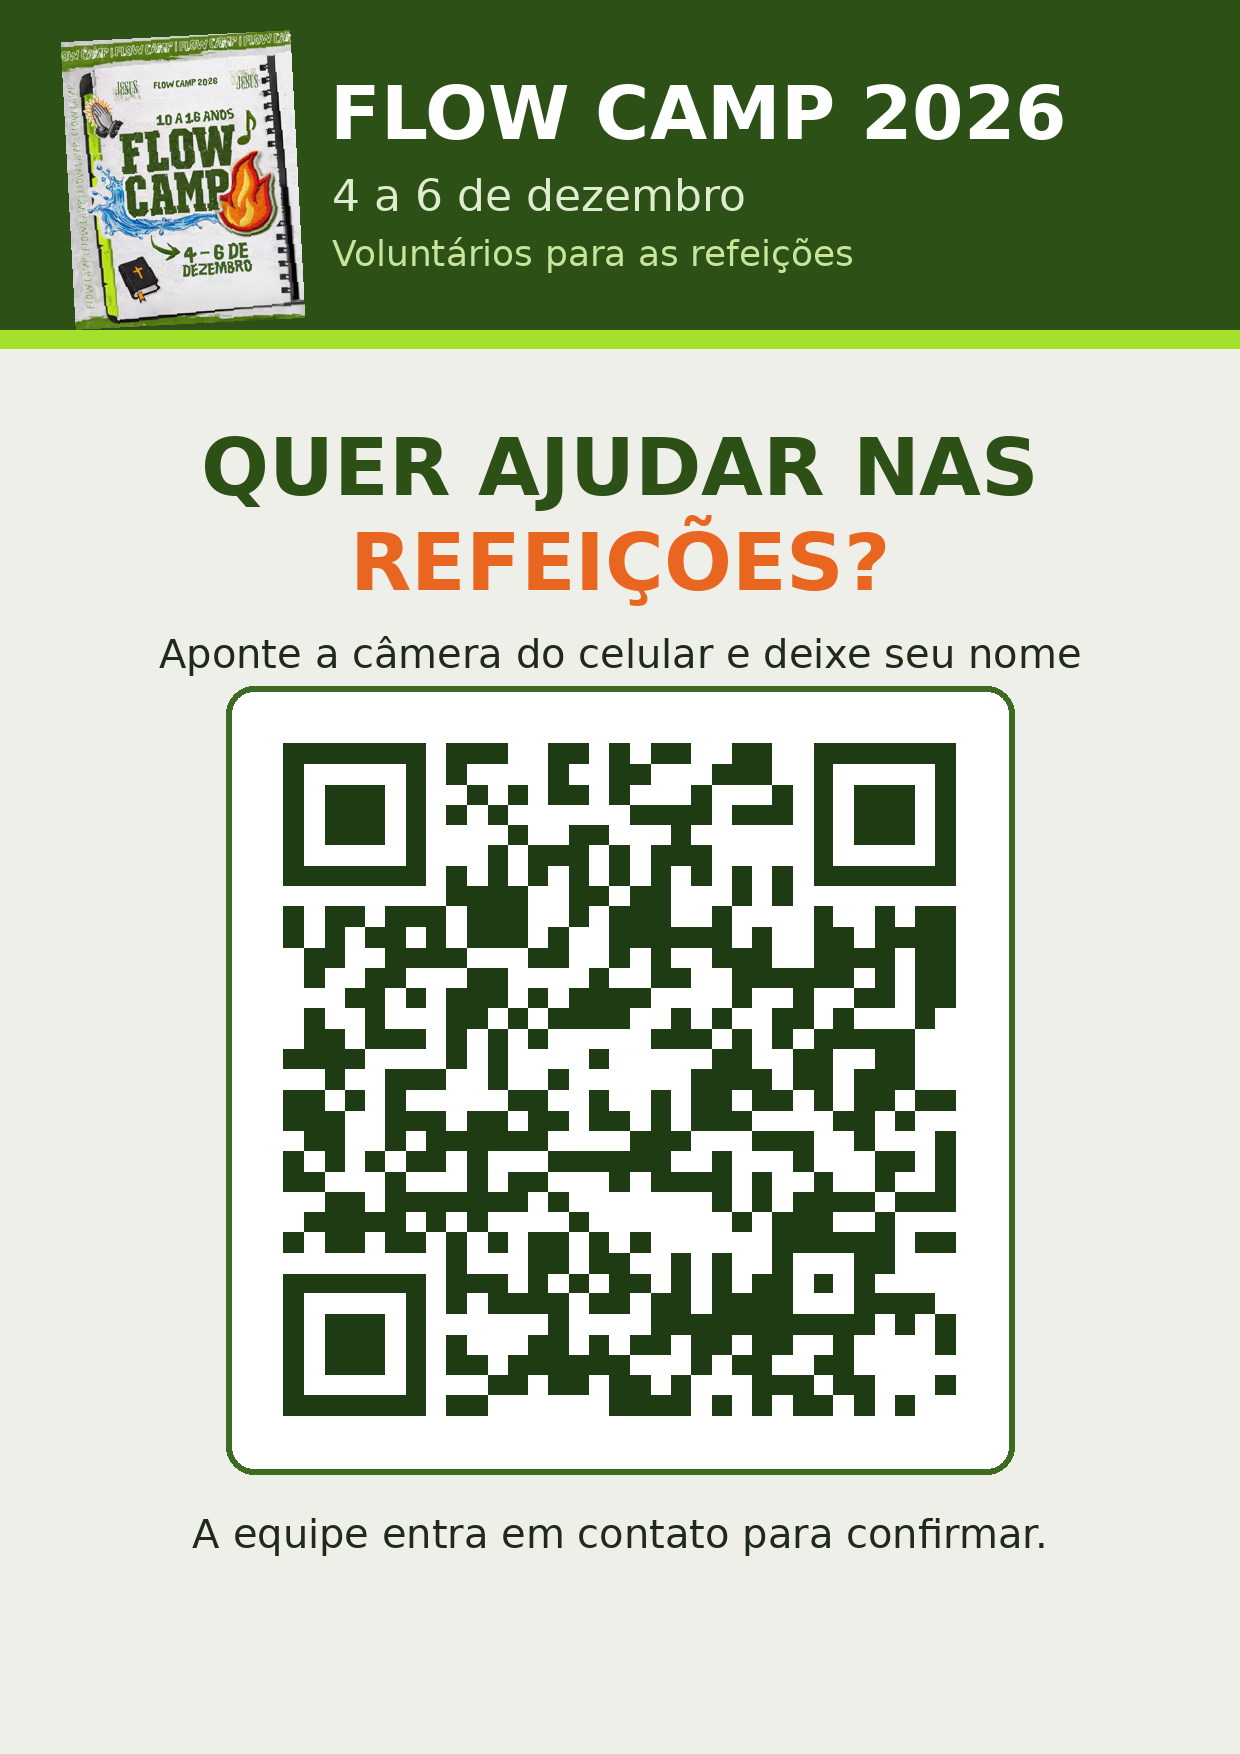
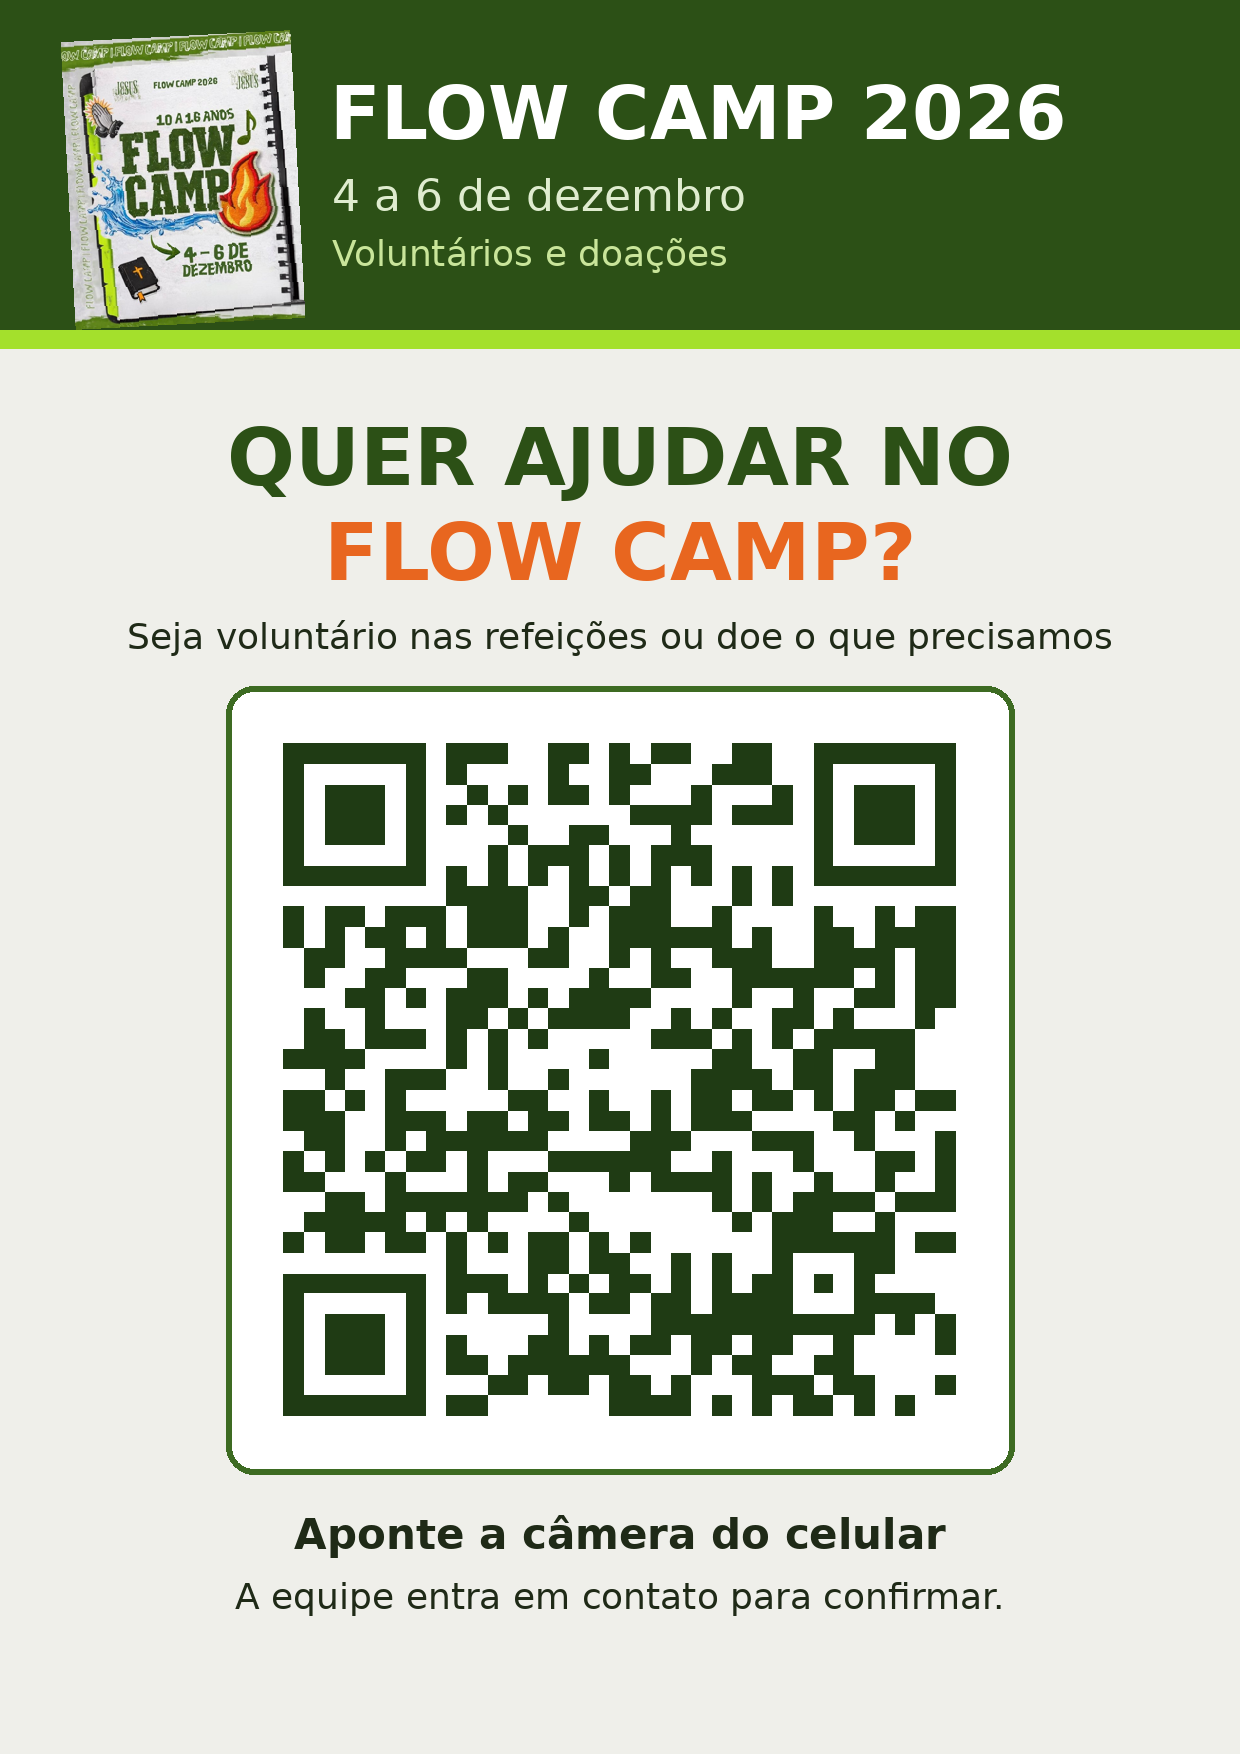
Flow Camp: aba 'Quero doar' no QR (puxa a lista do que precisamos), doações via QR marcadas no sistema, cartaz atualizado
Claude-Session: https://claude.ai/code/session_016TdtaeUPkNzYv2FFrzJSkH

Changed region(s): [[0.0919, 0.2463, 0.8887, 0.4002], [0.1532, 0.862, 0.8274, 0.9236], [0.4597, 0.1231, 0.6742, 0.1539]]

diff --git a/flowcamp/ajudar/index.html b/flowcamp/ajudar/index.html
@@ -5,7 +5,7 @@
 <meta name="viewport" content="width=device-width, initial-scale=1">
 <meta name="theme-color" content="#2c5016">
 <title>Quero ajudar · Flow Camp 2026</title>
-<meta name="description" content="Inscreva-se para ajudar nas refeições do Flow Camp 2026 — 4 a 6 de dezembro.">
+<meta name="description" content="Ajude o Flow Camp 2026 (4 a 6 de dezembro): seja voluntário nas refeições ou doe o que estamos precisando.">
 <link rel="icon" type="image/png" href="/favicon.png">
 <link rel="apple-touch-icon" href="/logo.png">
 <link rel="preconnect" href="https://fonts.googleapis.com">
@@ -42,6 +42,20 @@ label.lb,.lb{display:block;font-size:14px;font-weight:600;margin:16px 0 6px}
 .ok{text-align:center;padding:10px 4px}
 .ok .big{font-size:52px;line-height:1}
 .ok h2{margin:10px 0 6px}
+.abas{display:flex;gap:6px;background:#fff;border:1px solid var(--line);border-radius:16px;padding:5px;margin:-14px 0 14px;box-shadow:0 6px 20px rgba(0,0,0,.06);position:relative}
+.abas button{flex:1;padding:12px 8px;border-radius:12px;background:none;font-size:15.5px;font-weight:700;color:var(--muted)}
+.abas button.on{background:var(--brand);color:#fff}
+.card.sem-topo{margin-top:0}
+.it{display:flex;align-items:center;gap:10px;padding:11px 0;border-top:1px solid var(--line)}
+.it:first-child{border-top:0}
+.it input[type=checkbox]{width:22px;height:22px;flex:none;accent-color:var(--brand)}
+.it .n{flex:1;min-width:0}
+.it .n b{display:block;font-size:15.5px}
+.it .n small{color:var(--muted);font-size:13px}
+.it .q{width:92px;flex:none;display:flex;align-items:center;gap:4px}
+.it .q input{width:60px;padding:9px 6px;border:1.5px solid var(--line);border-radius:10px;text-align:center}
+.it .q span{font-size:13px;color:var(--muted)}
+.it.cheio{opacity:.55}
 .link{background:none;color:var(--brand);font-weight:700;font-size:15px;margin-top:14px;padding:6px}
 </style>
 </head>
@@ -49,10 +63,14 @@ label.lb,.lb{display:block;font-size:14px;font-weight:600;margin:16px 0 6px}
 <div class="topo">
   <img src="/flowcamp/arte.jpg" alt="Flow Camp 2026 — 4 a 6 de dezembro">
   <h1>QUERO AJUDAR!</h1>
-  <p>Voluntários para as refeições do Flow Camp</p>
+  <p>Seja voluntário nas refeições ou doe o que precisamos</p>
 </div>
 <main>
-  <div class="card" id="form">
+  <div class="abas" role="tablist">
+    <button type="button" class="on" data-aba="vol" role="tab">🍽 Ser voluntário</button>
+    <button type="button" data-aba="doar" role="tab">🎁 Quero doar</button>
+  </div>
+  <div class="card sem-topo" id="form">
     <h2>Deixe seu nome</h2>
     <p class="hint" style="margin:0">Marque as refeições em que você <b>pode</b> ajudar. Depois a equipe organiza todo mundo e entra em contato para confirmar. 🙌</p>
     <label class="lb" for="nome">Seu nome</label>
@@ -68,11 +86,27 @@ label.lb,.lb{display:block;font-size:14px;font-weight:600;margin:16px 0 6px}
     <div class="erro" id="erro" role="alert"></div>
     <button class="go" id="enviar" type="button">Quero ajudar</button>
   </div>
-  <div class="card ok" id="pronto" hidden>
+  <div class="card sem-topo" id="formDoar" hidden>
+    <h2>O que você pode doar?</h2>
+    <p class="hint" style="margin:0">Marque os itens e, se souber, a quantidade. A equipe entra em contato para combinar a entrega. 🙏</p>
+    <label class="lb" for="dNome">Seu nome</label>
+    <input class="field" id="dNome" autocomplete="name" maxlength="80">
+    <label class="lb" for="dTel">Telefone / WhatsApp</label>
+    <input class="field" id="dTel" inputmode="tel" autocomplete="tel" maxlength="30" placeholder="(47) 99999-9999">
+    <div class="lb">Do que estamos precisando</div>
+    <div id="itens"><p class="hint">Carregando…</p></div>
+    <label class="lb" for="dOutro">Quer doar outra coisa? <small>(opcional)</small></label>
+    <input class="field" id="dOutro" maxlength="200" placeholder="Ex.: 2 bolos caseiros">
+    <label class="lb" for="dObs">Alguma observação? <small>(opcional)</small></label>
+    <input class="field" id="dObs" maxlength="300" placeholder="Ex.: entrego no sábado de manhã">
+    <div class="erro" id="dErro" role="alert"></div>
+    <button class="go" id="doar" type="button">Quero doar</button>
+  </div>
+  <div class="card ok sem-topo" id="pronto" hidden>
     <div class="big">🔥</div>
     <h2>Obrigado, <span id="pNome"></span>!</h2>
-    <p class="hint">Recebemos seu nome. A equipe do Flow Camp vai organizar as refeições e falar com você pelo WhatsApp para confirmar.</p>
-    <button class="link" id="outro" type="button">Inscrever outra pessoa</button>
+    <p class="hint" id="pMsg"></p>
+    <button class="link" id="outro" type="button">Enviar outra resposta</button>
   </div>
 </main>
 <script>
@@ -108,11 +142,47 @@ $('#enviar').onclick = async ()=>{
   const b = $('#enviar'); b.disabled = true; b.textContent = 'Enviando…';
   try{
     await rpc('fc_inscrever', {p_nome:nome, p_telefone:tel, p_refeicoes:[...sel], p_funcao:fun||null, p_obs:$('#obs').value.trim()||null});
-    $('#pNome').textContent = nome.split(' ')[0]; $('#form').hidden = true; $('#pronto').hidden = false; window.scrollTo(0,0);
+    pronto(nome, 'Recebemos seu nome. A equipe do Flow Camp vai organizar as refeições e falar com você pelo WhatsApp para confirmar.');
   }catch(e){ $('#erro').textContent = navigator.onLine ? e.message : 'Sem internet. Tente de novo.'; }
   finally{ b.disabled = false; b.textContent = 'Quero ajudar'; }
 };
-$('#outro').onclick = ()=>{ $('#nome').value = $('#tel').value = $('#obs').value = ''; sel = new Set(); fun = ''; desenhar(REFS); $('#pronto').hidden = true; $('#form').hidden = false; };
+let aba = 'vol', ITENS = [], marc = new Map();
+function pronto(nome, msg){ $('#pNome').textContent = nome.split(' ')[0]; $('#pMsg').textContent = msg; $('#form').hidden = $('#formDoar').hidden = true; document.querySelector('.abas').hidden = true; $('#pronto').hidden = false; window.scrollTo(0,0); }
+function mostrarAba(a){ aba = a; document.querySelectorAll('[data-aba]').forEach(b=>{ b.classList.toggle('on', b.dataset.aba===a); b.setAttribute('aria-selected', b.dataset.aba===a); });
+  $('#form').hidden = a!=='vol'; $('#formDoar').hidden = a!=='doar';
+  // quem já digitou nome/telefone numa aba não precisa digitar de novo
+  if(a==='doar'){ if(!$('#dNome').value) $('#dNome').value = $('#nome').value; if(!$('#dTel').value) $('#dTel').value = $('#tel').value; }
+  else { if(!$('#nome').value) $('#nome').value = $('#dNome').value; if(!$('#tel').value) $('#tel').value = $('#dTel').value; }
+  try{ history.replaceState(null, '', a==='doar' ? '#doar' : '#'); }catch(e){} }
+document.querySelectorAll('[data-aba]').forEach(b=>b.onclick=()=>mostrarAba(b.dataset.aba));
+const fmt = n => (Math.round(n*100)/100).toLocaleString('pt-BR');
+function desenharItens(){
+  $('#itens').innerHTML = ITENS.length ? ITENS.map(i=>{ const cheio = i.faltam !== null && Number(i.faltam) <= 0, m = marc.get(i.id);
+    return `<label class="it ${cheio?'cheio':''}"><input type="checkbox" data-i="${esc(i.id)}" ${m?'checked':''}>
+      <span class="n"><b>${esc(i.nome)}</b><small>${cheio ? '✅ já temos o suficiente' : i.faltam !== null ? `faltam ${fmt(Number(i.faltam))} ${esc(i.unidade)}` : ''}${i.refeicao?`${!cheio && i.faltam!==null?' · ':''}${esc(i.refeicao)}`:''}</small></span>
+      ${m ? `<span class="q"><input type="number" min="0" step="any" inputmode="decimal" data-q="${esc(i.id)}" value="${esc(m.q||'')}" placeholder="qtd" aria-label="Quantidade de ${esc(i.nome)}"><span>${esc(i.unidade)}</span></span>` : ''}</label>`; }).join('')
+    : '<p class="hint">A lista ainda está sendo montada. Se quiser, escreva abaixo o que pode doar.</p>';
+  document.querySelectorAll('[data-i]').forEach(c=>c.onchange=()=>{ c.checked ? marc.set(c.dataset.i, {q:''}) : marc.delete(c.dataset.i); $('#dErro').textContent=''; desenharItens(); });
+  document.querySelectorAll('[data-q]').forEach(x=>{ x.onclick = e=>e.preventDefault(); x.oninput = ()=>{ marc.get(x.dataset.q).q = x.value; }; });
+}
+rpc('fc_itens_publicos').then(r=>{ ITENS = r||[]; desenharItens(); }).catch(()=>{ $('#itens').innerHTML = '<p class="hint">Não consegui carregar a lista. Confira a internet e recarregue a página.</p>'; });
+$('#doar').onclick = async ()=>{
+  const nome = $('#dNome').value.replace(/\s+/g,' ').trim(), tel = $('#dTel').value.trim(), outro = $('#dOutro').value.trim();
+  $('#dErro').textContent = '';
+  if(nome.length < 2){ $('#dErro').textContent = 'Digite seu nome.'; $('#dNome').focus(); return; }
+  if(tel.replace(/\D/g,'').length < 8){ $('#dErro').textContent = 'Digite seu telefone com DDD.'; $('#dTel').focus(); return; }
+  if(!marc.size && !outro){ $('#dErro').textContent = 'Marque pelo menos um item (ou escreva o que quer doar).'; return; }
+  const b = $('#doar'); b.disabled = true; b.textContent = 'Enviando…';
+  try{
+    await rpc('fc_doar', {p_nome:nome, p_telefone:tel, p_itens:[...marc].map(([id,m])=>({id, quantidade:String(m.q||'').replace(',','.')})), p_outro:outro||null, p_obs:$('#dObs').value.trim()||null});
+    pronto(nome, 'Recebemos sua doação. A equipe do Flow Camp vai falar com você pelo WhatsApp para combinar a entrega. Deus abençoe!');
+  }catch(e){ $('#dErro').textContent = navigator.onLine ? e.message : 'Sem internet. Tente de novo.'; }
+  finally{ b.disabled = false; b.textContent = 'Quero doar'; }
+};
+$('#outro').onclick = ()=>{ ['#nome','#tel','#obs','#dNome','#dTel','#dOutro','#dObs'].forEach(s=>$(s).value=''); sel = new Set(); fun = ''; marc = new Map(); desenhar(REFS); desenharItens();
+  rpc('fc_itens_publicos').then(r=>{ ITENS = r||[]; desenharItens(); }).catch(()=>{});
+  $('#pronto').hidden = true; document.querySelector('.abas').hidden = false; mostrarAba(aba); };
+if(location.hash==='#doar') mostrarAba('doar');
 </script>
 </body>
 </html>

diff --git a/flowcamp/index.html b/flowcamp/index.html
@@ -492,7 +492,7 @@ function renderDoacoes(){
   if(doFiltro==='prometido' || doFiltro==='entregue') l = l.filter(d=>d.status===doFiltro);
   if(doFiltro==='dinheiro') l = l.filter(d=>d.dinheiro);
   $('#doConta').textContent = `${l.length} de ${D.doacoes.length}`;
-  $('#doLista').innerHTML = l.map(d=>`<div class="item"><div class="t"><b>${esc(d.doador)}</b> ${d.status==='entregue'?'<span class="tag ok">entregue</span>':'<span class="tag pend">a receber</span>'}
+  $('#doLista').innerHTML = l.map(d=>`<div class="item"><div class="t"><b>${esc(d.doador)}</b>${d.origem==='formulário'?' <span class="tag">via QR</span>':''} ${d.status==='entregue'?'<span class="tag ok">entregue</span>':'<span class="tag pend">a receber</span>'}
       <div>${esc(descDoacao(d))}${d.telefone?' · '+telLink(d.telefone):''}</div>${d.obs?`<div>📝 ${esc(d.obs)}</div>`:''}</div>
     <div class="a">${d.status==='prometido'?`<button class="btn ok sm" data-entregue="${d.id}" type="button">Recebido</button>`:''}<button class="btn sm" data-doedit="${d.id}" type="button">Editar</button></div></div>`).join('')
     || `<p class="vazio">${D.doacoes.length?'Nada encontrado.':'Nenhuma doação registrada ainda.'}</p>`;
@@ -554,7 +554,7 @@ function msgAviso(p){
   return `Oi, ${p.nome.split(' ')[0]}! Obrigado por se oferecer para ajudar no *Flow Camp* 🔥\n\nVocê ficou escalado(a) para:\n${es.map(r=>`• ${TIPOS[r.tipo]} — ${diaTxt(r.dia).toLowerCase()}${r.hora?` às ${r.hora}`:''}`).join('\n')}\n\nQualquer imprevisto, avise a gente. Deus abençoe! 🙌`;
 }
 function renderVoluntarios(){
-  const qr = `<details class="card qrbox"><summary><b>📱 QR Code de inscrição</b> <span class="hint">— quem quiser ajudar se inscreve sozinho, sem login</span></summary>
+  const qr = `<details class="card qrbox"><summary><b>📱 QR Code de inscrição</b> <span class="hint">— voluntários e doações, sem login</span></summary>
     <div class="qrin"><img src="/flowcamp/qr-ajudar.png" alt="QR Code para a inscrição de voluntários"><div>
       <p class="hint" style="margin:0 0 8px">As inscrições entram aqui como “pode ajudar”, marcadas com <span class="tag">via QR</span>. Depois é só escalar e avisar.</p>
       <div class="row"><a class="btn sm dark" href="/flowcamp/cartaz-ajudar.png" download="Flow Camp - cartaz voluntarios.png">⬇ Cartaz para imprimir</a><a class="btn sm" href="/flowcamp/qr-ajudar.png" download="Flow Camp - QR voluntarios.png">⬇ Só o QR</a>
